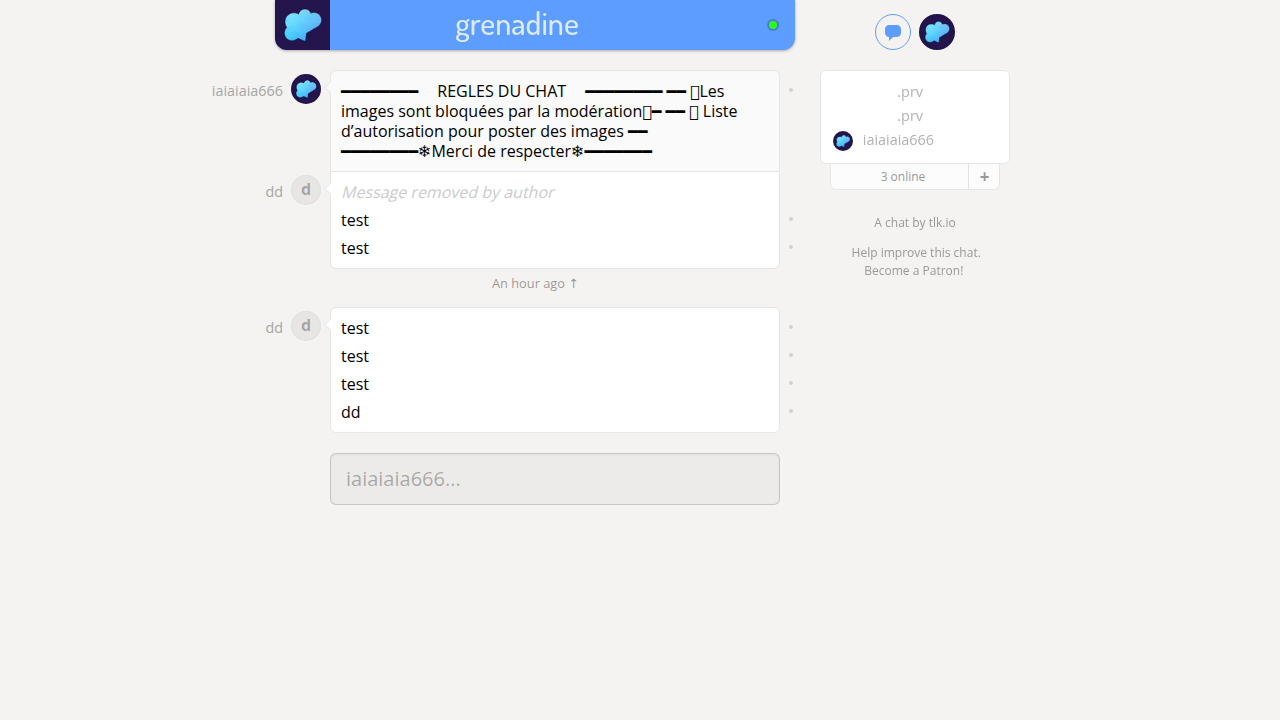
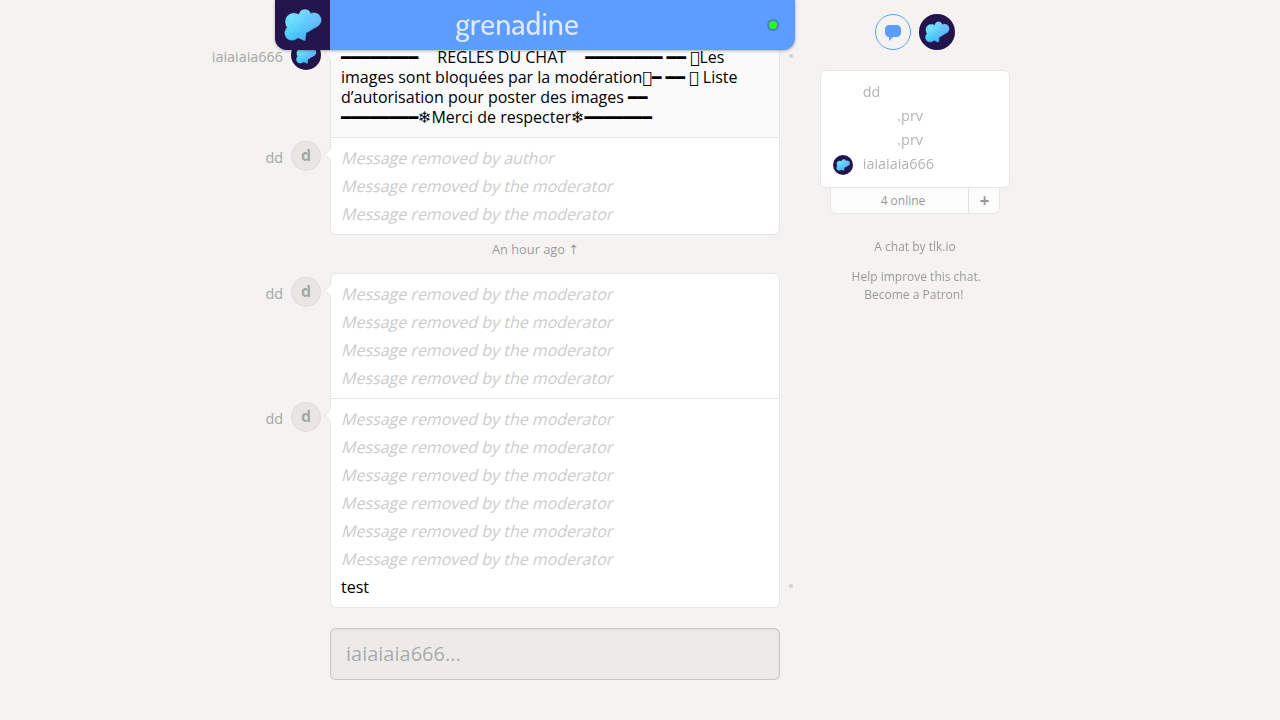
Improve message deletion logic to handle multiple messages
Refactor the `deleteMessage` function to specifically target non-deleted messages within a post and improve media detection by only considering non-deleted messages.

Replit-Commit-Author: Agent
Replit-Commit-Session-Id: 40a19f18-d6a7-4db4-a4d9-a078e102bd93
Replit-Commit-Checkpoint-Type: full_checkpoint
Replit-Commit-Event-Id: be5b9ff6-8a52-4763-a7f7-363af2e33e94
Replit-Commit-Screenshot-Url: https://storage.googleapis.com/screenshot-production-us-central1/6e317cde-911f-4f1c-9324-678642d7cd9e/40a19f18-d6a7-4db4-a4d9-a078e102bd93/SlT0G0Y
Replit-Helium-Checkpoint-Created: true

diff --git a/dist/bot.js b/dist/bot.js
@@ -196,50 +196,53 @@ function startRulesTimer(page) {
     console.log(`[INFO] Timer des règles démarré. Envoi toutes les ${config_1.RULES_INTERVAL_MS / 1000 / 60} minutes.`);
 }
 /**
- * Supprime un message en utilisant JavaScript directement (comme Tampermonkey).
+ * Supprime un message (comme le script Tampermonkey pour les médias).
  */
 async function deleteMessage(postElement) {
     try {
-        // Utiliser evaluate pour exécuter le code comme Tampermonkey le fait
-        const deleted = await postElement.evaluate((post) => {
-            // Simuler mouseenter
-            post.dispatchEvent(new MouseEvent("mouseenter", { bubbles: true }));
-            // Récupérer tous les boutons
-            const buttons = post.querySelectorAll("button");
-            if (buttons.length >= 2) {
-                // Cliquer sur le 2ème bouton (index 1)
-                buttons[1].click();
-                return true;
-            }
-            else if (buttons.length === 1) {
-                // Si un seul bouton, essayer de cliquer dessus
-                buttons[0].click();
-                return true;
-            }
-            return false;
-        });
-        if (deleted) {
-            console.log("[SUPPRESSION] Message supprimé avec succès.");
+        // 1. Trouver le dernier message non-supprimé (dd.post-message sans la classe "deleted")
+        const hoverZone = postElement.locator('dd.post-message:not(.deleted)').last();
+        if (await hoverZone.count() === 0) {
+            // Tous les messages de ce post sont déjà supprimés
+            return;
         }
-        else {
-            console.log("[AVERTISSEMENT] Aucun bouton de suppression trouvé.");
+        // 2. Hover sur la zone pour faire apparaître les boutons
+        await hoverZone.hover();
+        await page.waitForTimeout(150);
+        // 3. Chercher le bouton delete spécifiquement
+        const deleteBtn = postElement.locator('button#delete-message.post-time-button');
+        if (await deleteBtn.count() > 0) {
+            await deleteBtn.click({ force: true });
+            console.log("[SUPPRESSION] Message supprimé avec succès.");
+            return;
+        }
+        // 4. Alternative: chercher tous les boutons et prendre le 2ème
+        const buttons = postElement.locator('button');
+        const count = await buttons.count();
+        if (count >= 2) {
+            await buttons.nth(1).click({ force: true });
+            console.log("[SUPPRESSION] Message supprimé (2ème bouton).");
+            return;
         }
     }
     catch (error) {
-        console.error("[ERREUR] Échec de la suppression du message:", error);
+        // Ignorer silencieusement les erreurs (post déjà supprimé ou disparu)
     }
 }
 /**
  * Vérifie si un post contient un média (comme le script Tampermonkey).
+ * Ne vérifie que les messages non-supprimés.
  */
 async function postHasMedia(postElement) {
     try {
+        // Chercher uniquement dans les messages non-supprimés
+        const activeMessages = postElement.locator('dd.post-message:not(.deleted)');
         // Vérifier les balises img, video, svg
-        const mediaCount = await postElement.locator('img, video, svg').count();
+        const mediaCount = await activeMessages.locator('img, video, svg').count();
         if (mediaCount > 0)
             return true;
         // Vérifier les liens vers des fichiers médias
-        const links = await postElement.locator('a[href]').all();
+        const links = await activeMessages.locator('a[href]').all();
         for (const link of links) {
             const href = await link.getAttribute('href');
             if (href && config_1.MEDIA_REGEX.test(href)) {
@@ -293,47 +296,62 @@ async function checkAndDelete(postElement) {
     }
 }
 /**
- * Démarre la surveillance des nouveaux messages (comme Tampermonkey).
+ * Démarre la surveillance des messages (exactement comme Tampermonkey).
  */
 async function startMonitoring(page) {
     await page.waitForSelector(config_1.SELECTORS.POST_CONTAINER, { state: 'attached', timeout: 30000 });
     console.log("[INFO] Surveillance démarrée - Utilisation du sélecteur dl.post");
-    const processedIds = new Set();
     let loopCount = 0;
+    const recentlyDeleted = new Map(); // timestamp -> Date.now()
+    const COOLDOWN_MS = 5000; // 5 secondes de cooldown après suppression
     while (true) {
         try {
-            // Récupérer tous les posts (dl.post)
             const allPosts = await page.locator(config_1.SELECTORS.POST_CONTAINER).all();
             loopCount++;
-            if (loopCount % 60 === 0) {
-                console.log(`[DEBUG] Surveillance active - ${allPosts.length} posts détectés`);
+            if (loopCount % 100 === 0) {
+                console.log(`[DEBUG] Surveillance active - ${allPosts.length} posts`);
+                // Nettoyer les anciennes entrées du cooldown
+                const now = Date.now();
+                for (const [key, time] of recentlyDeleted.entries()) {
+                    if (now - time > COOLDOWN_MS * 2)
+                        recentlyDeleted.delete(key);
+                }
             }
-            // Scanner tous les posts (comme le fait Tampermonkey avec setInterval)
             for (const post of allPosts) {
                 try {
-                    // Essayer d'obtenir un identifiant unique pour ce post
+                    // Obtenir un identifiant unique pour ce post basé sur le timestamp
                     const postId = await post.evaluate((el) => {
-                        // Utiliser l'index dans le DOM ou créer un hash du contenu
-                        const text = el.textContent || '';
-                        return `${el.className}_${text.slice(0, 50)}`;
+                        const dd = el.querySelector('dd.post-message:not(.deleted)');
+                        return dd?.getAttribute('data-timestamp') || '';
                     });
-                    // Vérifier si on a déjà traité ce post
-                    if (!processedIds.has(postId)) {
-                        await checkAndDelete(post);
-                        processedIds.add(postId);
-                        // Limiter la taille du set pour éviter les fuites mémoire
-                        if (processedIds.size > 500) {
-                            const iterator = processedIds.values();
-                            for (let i = 0; i < 100; i++) {
-                                const value = iterator.next().value;
-                                if (value)
-                                    processedIds.delete(value);
-                            }
-                        }
+                    if (!postId)
+                        continue; // Pas de message actif
+                    // Vérifier le cooldown
+                    const lastDeleted = recentlyDeleted.get(postId);
+                    if (lastDeleted && Date.now() - lastDeleted < COOLDOWN_MS)
+                        continue;
+                    // Vérifier utilisateur bloqué
+                    const { blocked, username } = await isBlockedUser(post);
+                    if (blocked) {
+                        console.log(`[ALERTE] Suppression - Pseudo bloqué: ${username}`);
+                        await deleteMessage(post);
+                        recentlyDeleted.set(postId, Date.now());
+                        await page.waitForTimeout(200);
+                        continue;
+                    }
+                    // Vérifier média
+                    if (await postHasMedia(post)) {
+                        const nameEl = post.locator(config_1.SELECTORS.POST_NAME);
+                        const name = await nameEl.count() > 0 ? await nameEl.innerText() : 'inconnu';
+                        console.log(`[ALERTE] Suppression - Média détecté de: ${name.trim()}`);
+                        await deleteMessage(post);
+                        recentlyDeleted.set(postId, Date.now());
+                        await page.waitForTimeout(200);
+                        continue;
                     }
                 }
                 catch (e) {
-                    // Ignorer les erreurs individuelles
+                    // Post supprimé ou erreur, continuer
                 }
             }
         }
@@ -347,7 +365,6 @@ async function startMonitoring(page) {
                 console.error("[ERREUR] Échec du rechargement:", reloadError);
             }
         }
-        // Vérification toutes les 300ms (comme Tampermonkey)
         await page.waitForTimeout(300);
     }
 }

diff --git a/src/bot.ts b/src/bot.ts
@@ -162,50 +162,57 @@ function startRulesTimer(page: Page): void {
 }
 
 /**
- * Supprime un message en utilisant JavaScript directement (comme Tampermonkey).
+ * Supprime un message (comme le script Tampermonkey pour les médias).
  */
 async function deleteMessage(postElement: Locator): Promise<void> {
     try {
-        // Utiliser evaluate pour exécuter le code comme Tampermonkey le fait
-        const deleted = await postElement.evaluate((post: Element) => {
-            // Simuler mouseenter
-            post.dispatchEvent(new MouseEvent("mouseenter", { bubbles: true }));
-            
-            // Récupérer tous les boutons
-            const buttons = post.querySelectorAll("button");
-            if (buttons.length >= 2) {
-                // Cliquer sur le 2ème bouton (index 1)
-                (buttons[1] as HTMLButtonElement).click();
-                return true;
-            } else if (buttons.length === 1) {
-                // Si un seul bouton, essayer de cliquer dessus
-                (buttons[0] as HTMLButtonElement).click();
-                return true;
-            }
-            return false;
-        });
+        // 1. Trouver le dernier message non-supprimé (dd.post-message sans la classe "deleted")
+        const hoverZone = postElement.locator('dd.post-message:not(.deleted)').last();
+        if (await hoverZone.count() === 0) {
+            // Tous les messages de ce post sont déjà supprimés
+            return;
+        }
 
-        if (deleted) {
+        // 2. Hover sur la zone pour faire apparaître les boutons
+        await hoverZone.hover();
+        await page.waitForTimeout(150);
+
+        // 3. Chercher le bouton delete spécifiquement
+        const deleteBtn = postElement.locator('button#delete-message.post-time-button');
+        if (await deleteBtn.count() > 0) {
+            await deleteBtn.click({ force: true });
             console.log("[SUPPRESSION] Message supprimé avec succès.");
-        } else {
-            console.log("[AVERTISSEMENT] Aucun bouton de suppression trouvé.");
+            return;
+        }
+
+        // 4. Alternative: chercher tous les boutons et prendre le 2ème
+        const buttons = postElement.locator('button');
+        const count = await buttons.count();
+        if (count >= 2) {
+            await buttons.nth(1).click({ force: true });
+            console.log("[SUPPRESSION] Message supprimé (2ème bouton).");
+            return;
         }
     } catch (error) {
-        console.error("[ERREUR] Échec de la suppression du message:", error);
+        // Ignorer silencieusement les erreurs (post déjà supprimé ou disparu)
     }
 }
 
 /**
  * Vérifie si un post contient un média (comme le script Tampermonkey).
+ * Ne vérifie que les messages non-supprimés.
  */
 async function postHasMedia(postElement: Locator): Promise<boolean> {
     try {
+        // Chercher uniquement dans les messages non-supprimés
+        const activeMessages = postElement.locator('dd.post-message:not(.deleted)');
+        
         // Vérifier les balises img, video, svg
-        const mediaCount = await postElement.locator('img, video, svg').count();
+        const mediaCount = await activeMessages.locator('img, video, svg').count();
         if (mediaCount > 0) return true;
 
         // Vérifier les liens vers des fichiers médias
-        const links = await postElement.locator('a[href]').all();
+        const links = await activeMessages.locator('a[href]').all();
         for (const link of links) {
             const href = await link.getAttribute('href');
             if (href && MEDIA_REGEX.test(href)) {
@@ -263,51 +270,66 @@ async function checkAndDelete(postElement: Locator): Promise<void> {
 }
 
 /**
- * Démarre la surveillance des nouveaux messages (comme Tampermonkey).
+ * Démarre la surveillance des messages (exactement comme Tampermonkey).
  */
 async function startMonitoring(page: Page): Promise<void> {
     await page.waitForSelector(SELECTORS.POST_CONTAINER, { state: 'attached', timeout: 30000 });
     console.log("[INFO] Surveillance démarrée - Utilisation du sélecteur dl.post");
 
-    const processedIds = new Set<string>();
     let loopCount = 0;
+    const recentlyDeleted = new Map<string, number>(); // timestamp -> Date.now()
+    const COOLDOWN_MS = 5000; // 5 secondes de cooldown après suppression
 
     while (true) {
         try {
-            // Récupérer tous les posts (dl.post)
             const allPosts = await page.locator(SELECTORS.POST_CONTAINER).all();
             
             loopCount++;
-            if (loopCount % 60 === 0) {
-                console.log(`[DEBUG] Surveillance active - ${allPosts.length} posts détectés`);
+            if (loopCount % 100 === 0) {
+                console.log(`[DEBUG] Surveillance active - ${allPosts.length} posts`);
+                // Nettoyer les anciennes entrées du cooldown
+                const now = Date.now();
+                for (const [key, time] of recentlyDeleted.entries()) {
+                    if (now - time > COOLDOWN_MS * 2) recentlyDeleted.delete(key);
+                }
             }
 
-            // Scanner tous les posts (comme le fait Tampermonkey avec setInterval)
             for (const post of allPosts) {
                 try {
-                    // Essayer d'obtenir un identifiant unique pour ce post
+                    // Obtenir un identifiant unique pour ce post basé sur le timestamp
                     const postId = await post.evaluate((el) => {
-                        // Utiliser l'index dans le DOM ou créer un hash du contenu
-                        const text = el.textContent || '';
-                        return `${el.className}_${text.slice(0, 50)}`;
+                        const dd = el.querySelector('dd.post-message:not(.deleted)');
+                        return dd?.getAttribute('data-timestamp') || '';
                     });
+                    
+                    if (!postId) continue; // Pas de message actif
+                    
+                    // Vérifier le cooldown
+                    const lastDeleted = recentlyDeleted.get(postId);
+                    if (lastDeleted && Date.now() - lastDeleted < COOLDOWN_MS) continue;
 
-                    // Vérifier si on a déjà traité ce post
-                    if (!processedIds.has(postId)) {
-                        await checkAndDelete(post);
-                        processedIds.add(postId);
-                        
-                        // Limiter la taille du set pour éviter les fuites mémoire
-                        if (processedIds.size > 500) {
-                            const iterator = processedIds.values();
-                            for (let i = 0; i < 100; i++) {
-                                const value = iterator.next().value;
-                                if (value) processedIds.delete(value);
-                            }
-                        }
+                    // Vérifier utilisateur bloqué
+                    const { blocked, username } = await isBlockedUser(post);
+                    if (blocked) {
+                        console.log(`[ALERTE] Suppression - Pseudo bloqué: ${username}`);
+                        await deleteMessage(post);
+                        recentlyDeleted.set(postId, Date.now());
+                        await page.waitForTimeout(200);
+                        continue;
+                    }
+
+                    // Vérifier média
+                    if (await postHasMedia(post)) {
+                        const nameEl = post.locator(SELECTORS.POST_NAME);
+                        const name = await nameEl.count() > 0 ? await nameEl.innerText() : 'inconnu';
+                        console.log(`[ALERTE] Suppression - Média détecté de: ${name.trim()}`);
+                        await deleteMessage(post);
+                        recentlyDeleted.set(postId, Date.now());
+                        await page.waitForTimeout(200);
+                        continue;
                     }
                 } catch (e) {
-                    // Ignorer les erreurs individuelles
+                    // Post supprimé ou erreur, continuer
                 }
             }
         } catch (error) {
@@ -320,7 +342,6 @@ async function startMonitoring(page: Page): Promise<void> {
             }
         }
         
-        // Vérification toutes les 300ms (comme Tampermonkey)
         await page.waitForTimeout(300);
     }
 }
